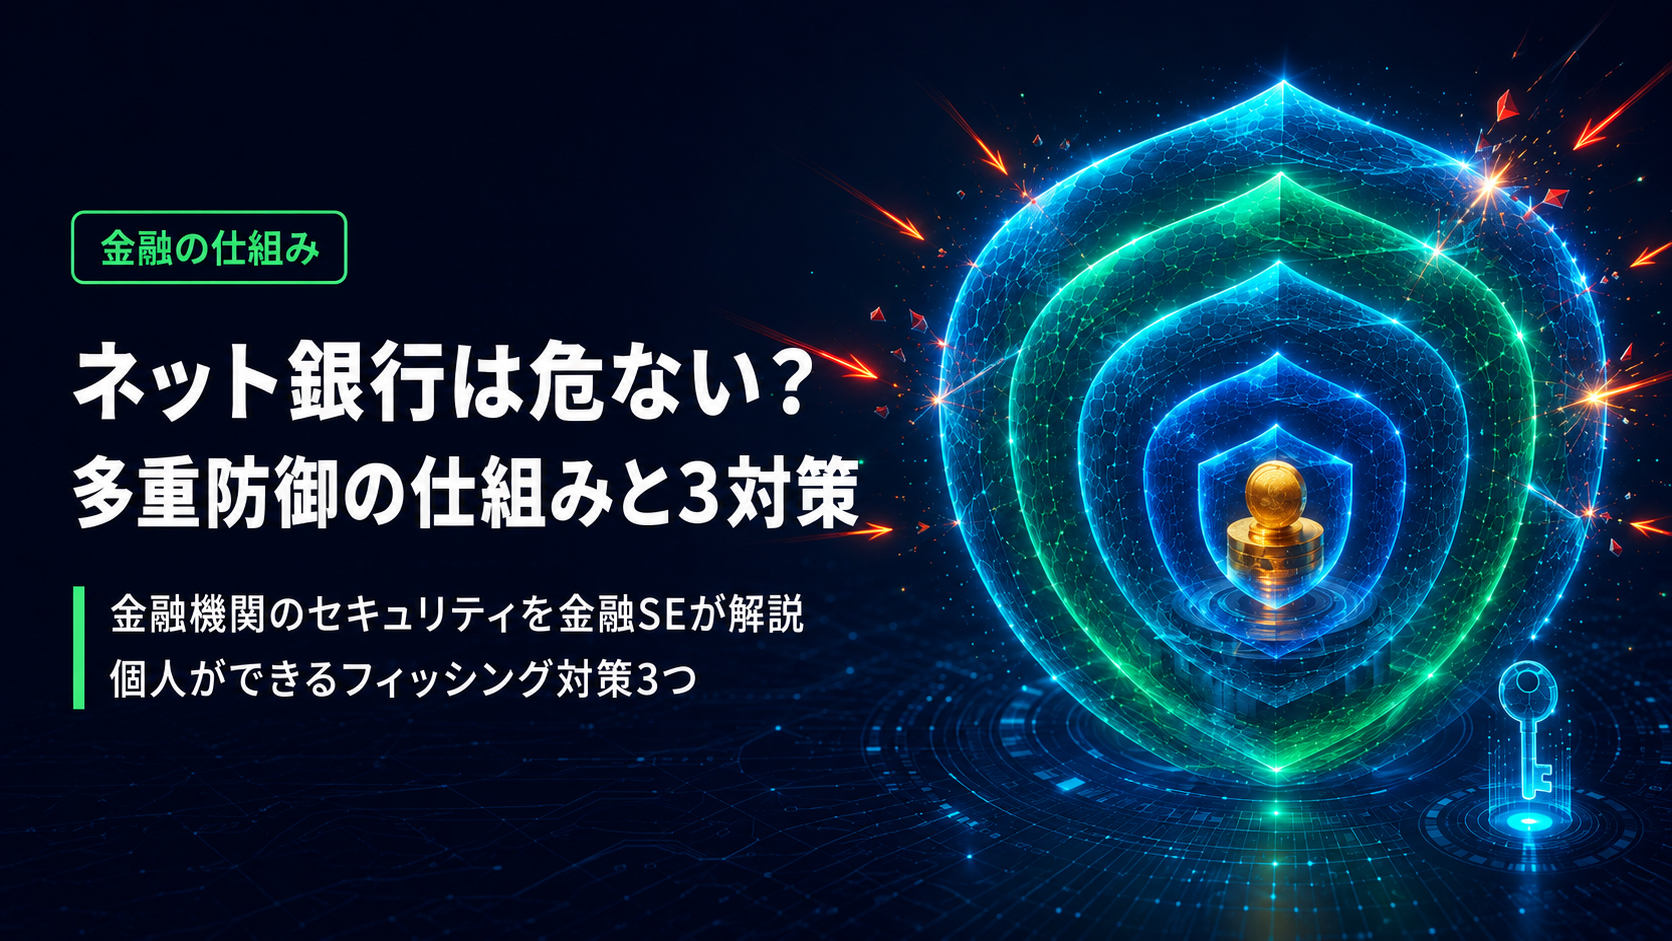
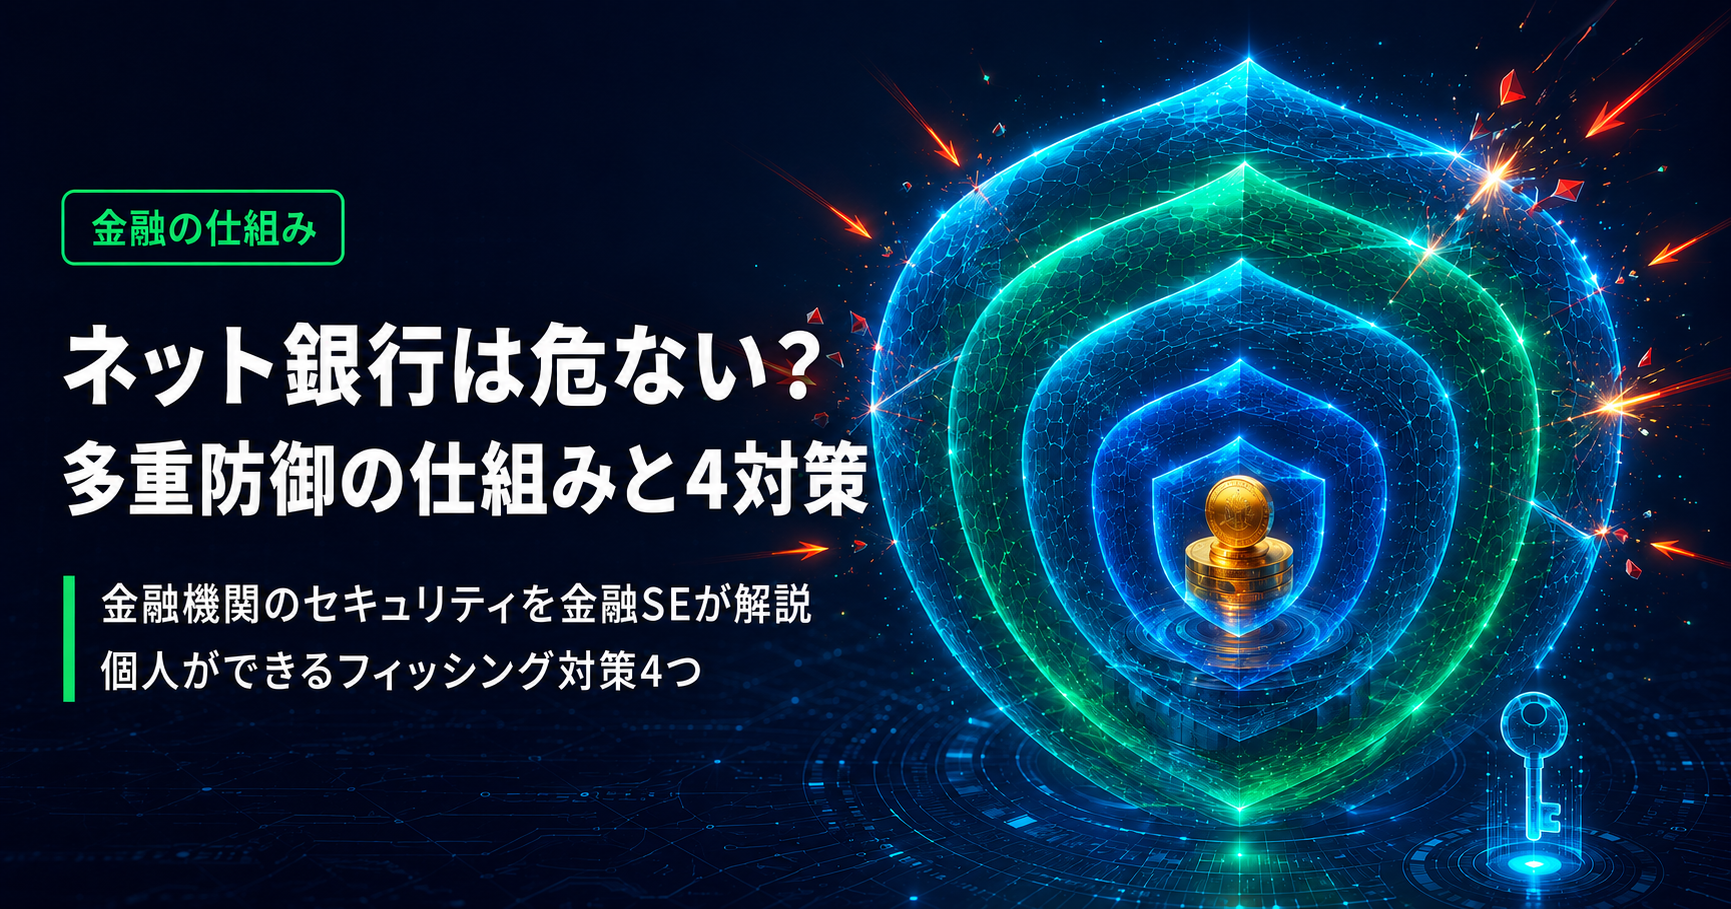
C-3: 本番公開 bank-security-defense-in-depth-phishing 2026-05-17 05:30

diff --git a/content/posts/bank-security-defense-in-depth-phishing.md b/content/posts/bank-security-defense-in-depth-phishing.md
@@ -1,7 +1,7 @@
 ---
 title: "ネット銀行は危ない？多重防御の仕組みと個人ができるフィッシング対策4つ｜金融SE解説"
-date: 2026-05-15T10:00:00+09:00
-draft: true
+date: 2026-05-17T05:30:00+09:00
+draft: false
 categories: ["金融の仕組み"]
 tags: ["セキュリティ", "フィッシング", "多要素認証", "パスキー", "ネット銀行"]
 description: "ネット銀行・ネット証券は危ない、と思っていませんか？実は金融機関は「多重防御」で何重にも守られていて、個人が4対策（パスキー有効化・メールURL不踏・取引通知ON・パスワードマネージャー）をやれば過度な心配なく使えます。多重防御のしくみと4対策を金融SE20年が解説。"
